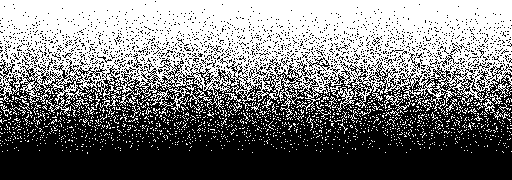
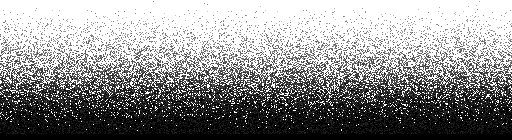
Runde 20: Übergang zurück auf Verlauf – kein Raum, kein Zoom, weicher Sandrand, keine Linien
Owner zu Runde 19: kein Raum bei den Trikots, das Zimmer soll nicht zoomen, der sandige Teil oben war
zu hoch und zu grob, Schwarz sprang auf Grau mit zwei sichtbaren Linien; der Wechsel darf länger sein.
Jetzt: das Zimmer bleibt stehen, von unten kommt ein niedriger, feiner Sandrand (weiche Körner,
tools/make_sand.py), dann Schwarz und ein langer, gleichmäßiger Verlauf bis Weiß (ohne Linien, mit
feinem Korn), gut zwei Bildschirme lang; die Trikots stehen danach wie vorher auf Weiß.

Claude-Session: https://claude.ai/code/session_01R3wWJYBEPWenzksQTM89FE

diff --git a/azur/theme/assets/azur-room.js b/azur/theme/assets/azur-room.js
@@ -2407,32 +2407,26 @@ if (window.AZUR_SETUP) window.AZUR_SETUP(window.AZUR);
        shadow: sections/azur-room.liquid); the room stays a little behind, shrinks a touch and darkens. Only transform
        and opacity of the stage change: the section keeps its box, so the theme header still sees where the room ends,
        and once the room is out of the window the IntersectionObserver stops its drawing as before. */
-    /* Runde 19 (owner): scrolling down you fall through the floor into a new, all white room (CSS and markup in the
-       theme's azur-room.liquid). The room stays put (sticky) while the camera dives to the floor (--azur-dive on the
-       room: larger, darker); the floor (.azur-fall: grains, the black slab, then the white room in one-point
-       perspective) comes up faster than the page scrolls (--azur-fall, eased: quick at first, then at scroll speed),
-       so the whole fall takes a little over half a screen; the white room settles as it arrives (--azur-land).
-       The header follows: dark type over the white room (html.azur-light), solid once the white room is past the
-       header's top half (html.azur-past, azur.js listens for `azur-hero`). html.azur-diving hides the room's hints and
-       chips (the phones' hint is fixed and would stay over the shop); the room stops drawing while the floor covers it. */
+    /* Runde 19 (owner, second try): scrolling down you go through the floor. The room stays as it is (sticky, no zoom);
+       the floor (.azur-fall in the theme's azur-room.liquid: a low sandy edge, black, then a long even gradient to
+       white) slides up over it and the jerseys follow in the white. The header follows: dark type once the gradient
+       under it is light (html.azur-light), solid once the white end has passed it (html.azur-past, azur.js listens
+       for `azur-hero`). html.azur-diving hides the room's hints and chips as soon as the page moves (the phones' hint is
+       fixed and would stay over the shop); the room stops drawing while the floor covers it. */
     bindScrollAway() {
       const html = document.documentElement, sec = this.root.parentElement, fall = sec.querySelector('.azur-fall');
       if (!fall) return;
-      const slab = fall.querySelector('.azur-fall__slab'), white = fall.querySelector('.azur-fall__room');
+      const grad = fall.querySelector('.azur-fall__grad');
       let queued = false;
       const flag = (c, on) => { if (html.classList.contains(c) !== on) { html.classList.toggle(c, on); return true; } return false; };
       const update = () => {
         queued = false;
-        const vh = window.innerHeight || 1, head = document.querySelector('[data-header]'), hb = head ? head.getBoundingClientRect().bottom : 0;
-        const s = Math.max(0, -sec.getBoundingClientRect().top), x = Math.min(1, s / (0.55 * vh));
-        const dive = 1 - (1 - x) * (1 - x);
-        this.root.style.setProperty('--azur-dive', dive.toFixed(4)); fall.style.setProperty('--azur-fall', dive.toFixed(4));
-        const wr = white.getBoundingClientRect();
-        fall.style.setProperty('--azur-land', Math.min(1, Math.max(0, 1 - wr.top / vh)).toFixed(4));
-        flag('azur-diving', s > 4);
-        flag('azur-light', wr.top < hb / 2);
-        if (flag('azur-past', wr.top <= -0.3 * vh)) window.dispatchEvent(new Event('azur-hero'));
-        const away = slab.getBoundingClientRect().top <= 0;
+        const head = document.querySelector('[data-header]'), hb = head ? head.getBoundingClientRect().bottom : 0;
+        const g = grad.getBoundingClientRect(), t = (hb / 2 - g.top) / Math.max(1, g.height);
+        flag('azur-diving', sec.getBoundingClientRect().top < -4);
+        flag('azur-light', t > 0.62);                       // the gradient is mid grey there (black for the first 22 %)
+        if (flag('azur-past', g.bottom <= hb + 1)) window.dispatchEvent(new Event('azur-hero'));
+        const away = g.top <= 0;
         if (away !== this.away) { this.away = away; if (!away) this.kick(); }
       };
       const queue = () => { if (!queued) { queued = true; requestAnimationFrame(update); } };

diff --git a/azur/prototype/js/azur-app.js b/azur/prototype/js/azur-app.js
@@ -570,32 +570,26 @@
        shadow: sections/azur-room.liquid); the room stays a little behind, shrinks a touch and darkens. Only transform
        and opacity of the stage change: the section keeps its box, so the theme header still sees where the room ends,
        and once the room is out of the window the IntersectionObserver stops its drawing as before. */
-    /* Runde 19 (owner): scrolling down you fall through the floor into a new, all white room (CSS and markup in the
-       theme's azur-room.liquid). The room stays put (sticky) while the camera dives to the floor (--azur-dive on the
-       room: larger, darker); the floor (.azur-fall: grains, the black slab, then the white room in one-point
-       perspective) comes up faster than the page scrolls (--azur-fall, eased: quick at first, then at scroll speed),
-       so the whole fall takes a little over half a screen; the white room settles as it arrives (--azur-land).
-       The header follows: dark type over the white room (html.azur-light), solid once the white room is past the
-       header's top half (html.azur-past, azur.js listens for `azur-hero`). html.azur-diving hides the room's hints and
-       chips (the phones' hint is fixed and would stay over the shop); the room stops drawing while the floor covers it. */
+    /* Runde 19 (owner, second try): scrolling down you go through the floor. The room stays as it is (sticky, no zoom);
+       the floor (.azur-fall in the theme's azur-room.liquid: a low sandy edge, black, then a long even gradient to
+       white) slides up over it and the jerseys follow in the white. The header follows: dark type once the gradient
+       under it is light (html.azur-light), solid once the white end has passed it (html.azur-past, azur.js listens
+       for `azur-hero`). html.azur-diving hides the room's hints and chips as soon as the page moves (the phones' hint is
+       fixed and would stay over the shop); the room stops drawing while the floor covers it. */
     bindScrollAway() {
       const html = document.documentElement, sec = this.root.parentElement, fall = sec.querySelector('.azur-fall');
       if (!fall) return;
-      const slab = fall.querySelector('.azur-fall__slab'), white = fall.querySelector('.azur-fall__room');
+      const grad = fall.querySelector('.azur-fall__grad');
       let queued = false;
       const flag = (c, on) => { if (html.classList.contains(c) !== on) { html.classList.toggle(c, on); return true; } return false; };
       const update = () => {
         queued = false;
-        const vh = window.innerHeight || 1, head = document.querySelector('[data-header]'), hb = head ? head.getBoundingClientRect().bottom : 0;
-        const s = Math.max(0, -sec.getBoundingClientRect().top), x = Math.min(1, s / (0.55 * vh));
-        const dive = 1 - (1 - x) * (1 - x);
-        this.root.style.setProperty('--azur-dive', dive.toFixed(4)); fall.style.setProperty('--azur-fall', dive.toFixed(4));
-        const wr = white.getBoundingClientRect();
-        fall.style.setProperty('--azur-land', Math.min(1, Math.max(0, 1 - wr.top / vh)).toFixed(4));
-        flag('azur-diving', s > 4);
-        flag('azur-light', wr.top < hb / 2);
-        if (flag('azur-past', wr.top <= -0.3 * vh)) window.dispatchEvent(new Event('azur-hero'));
-        const away = slab.getBoundingClientRect().top <= 0;
+        const head = document.querySelector('[data-header]'), hb = head ? head.getBoundingClientRect().bottom : 0;
+        const g = grad.getBoundingClientRect(), t = (hb / 2 - g.top) / Math.max(1, g.height);
+        flag('azur-diving', sec.getBoundingClientRect().top < -4);
+        flag('azur-light', t > 0.62);                       // the gradient is mid grey there (black for the first 22 %)
+        if (flag('azur-past', g.bottom <= hb + 1)) window.dispatchEvent(new Event('azur-hero'));
+        const away = g.top <= 0;
         if (away !== this.away) { this.away = away; if (!away) this.kick(); }
       };
       const queue = () => { if (!queued) { queued = true; requestAnimationFrame(update); } };

diff --git a/azur/tools/make_sand.py b/azur/tools/make_sand.py
@@ -1,0 +1,31 @@
+"""The sandy edge of the scroll transition (sections/azur-room.liquid, .azur-fall__dust): black grains on transparent,
+few at the top, denser downwards, solid black in the last rows; soft grains (each one with its own opacity) at 1:1 so
+they stay fine. Runde 19 (owner): lower and less harsh than the first version.
+
+    python3 azur/tools/make_sand.py      -> azur/theme/assets/azur-sand.png (512 x 140, tiles horizontally)
+"""
+import os
+import random
+
+from PIL import Image
+
+W, H, SOLID = 512, 140, 6
+OUT = os.path.join(os.path.dirname(os.path.dirname(os.path.abspath(__file__))), 'theme', 'assets', 'azur-sand.png')
+
+
+def main():
+    rnd = random.Random(19)
+    im = Image.new('RGBA', (W, H)); px = im.load()
+    for y in range(H):
+        t = min(1.0, y / (H - SOLID))
+        d = t * t * (3 - 2 * t)                      # density: smoothstep from 0 to 1
+        for x in range(W):
+            if y >= H - SOLID or rnd.random() < d:
+                a = 255 if y >= H - SOLID else int(255 * min(1.0, 0.35 + 0.65 * d + rnd.uniform(-0.15, 0.15)))
+                px[x, y] = (0, 0, 0, max(0, a))
+    im.save(OUT, optimize=True)
+    print(OUT, os.path.getsize(OUT))
+
+
+if __name__ == '__main__':
+    main()
